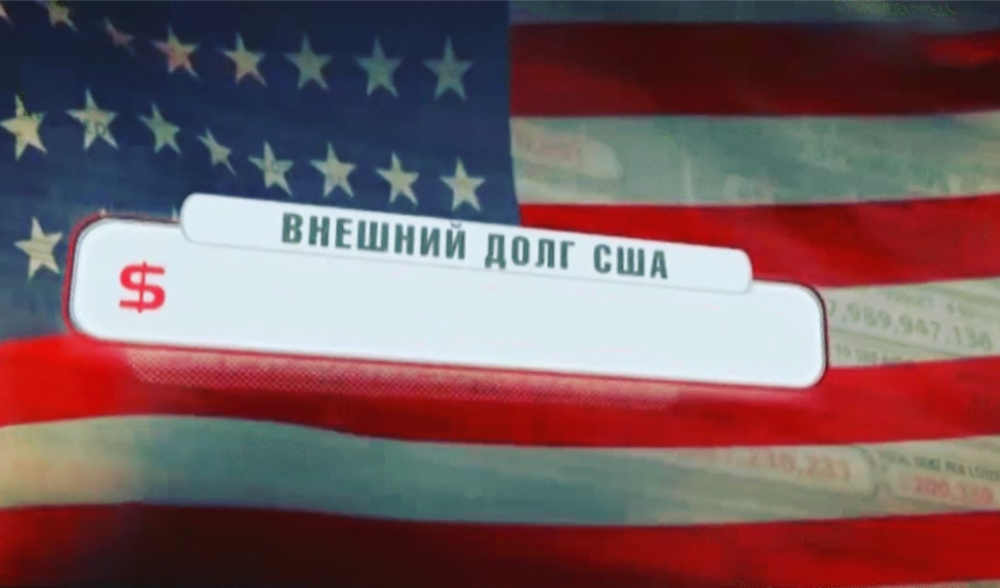
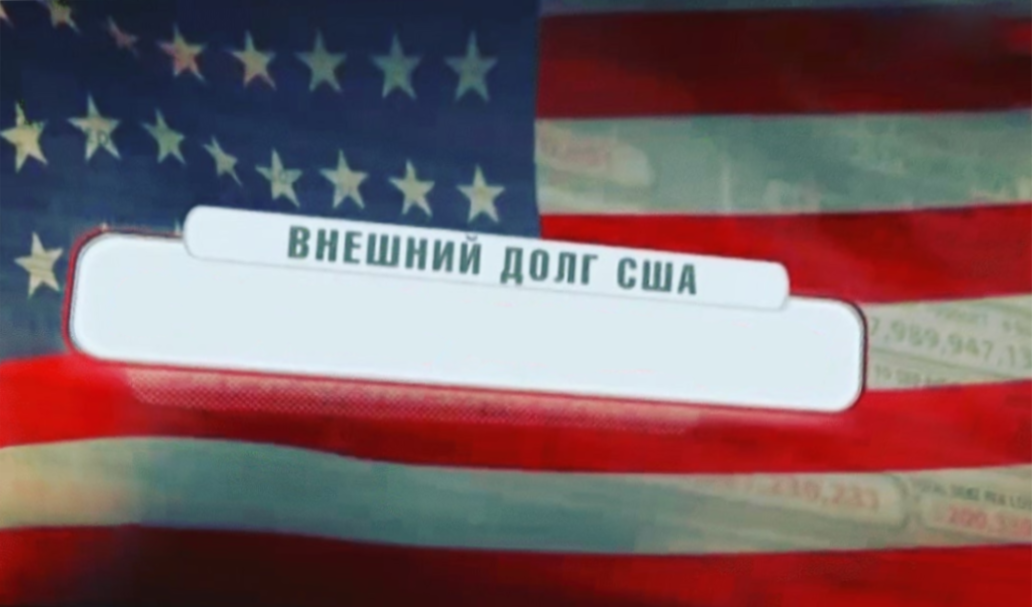
debt img generating

diff --git a/cmd/main.go b/cmd/main.go
@@ -2,62 +2,82 @@ package main
 
 import (
 	"fmt"
-	"image/png"
-	"os"
+	"image"
+	"image/draw"
 
+	"github.com/anthonynsimon/bild/clone"
+	"github.com/anthonynsimon/bild/imgio"
+	"github.com/anthonynsimon/bild/transform"
 	imgmerge "github.com/hablof/US-debt/img_merge"
 	// gim "github.com/ozankasikci/go-image-merge"
 )
 
+var (
+	runeToImg map[rune]string = map[rune]string{
+		'0': "static/0.png",
+		'1': "static/1.png",
+		'2': "static/2.png",
+		'3': "static/3.png",
+		'4': "static/4.png",
+		'5': "static/5.png",
+		'6': "static/6.png",
+		'7': "static/7.png",
+		'8': "static/8.png",
+		'9': "static/9.png",
+		'_': "static/_.png",
+		'$': "static/$.png",
+	}
+)
+
 const (
-	debt = 1_023_456_789
+	debt = 31462676535393
+
+	captionWidth = 730
+	captionHidth = 70
+
+	verticalAngle   = -5
+	horizontalAngle = 4
 )
 
 func main() {
 
-	grids := []*imgmerge.Grid{
-		{ImageFilePath: "static/1.png"},
-		{ImageFilePath: "static/0.png"},
-		{ImageFilePath: "static/0.png"},
-		{ImageFilePath: "static/_.png"},
-		{ImageFilePath: "static/5.png"},
-		{ImageFilePath: "static/0.png"},
-		{ImageFilePath: "static/0.png"},
-	}
-
-	rgba, err := imgmerge.New(grids).Merge()
+	caption, err := strToRGBA(intToSpStr(debt))
 	if err != nil {
-		fmt.Println("aaaaaaaaaaaaaa")
+		fmt.Println("cannot str to rgba", err)
 		return
 	}
 
-	file, err := os.Create("output.png")
+	caption = transform.Resize(caption, captionWidth, captionHidth, transform.Lanczos)
+
+	caption = transform.ShearH(transform.ShearV(caption, verticalAngle), horizontalAngle)
+
+	template, err := imgio.Open("static/template.png")
 	if err != nil {
-		fmt.Println("aaaaaaaaaaaaaa")
+		fmt.Println(err)
 		return
 	}
-	defer file.Close()
 
-	err = png.Encode(file, rgba)
-	if err != nil {
-		fmt.Println("aaaaaaaaaaaaaa")
+	templateRGBA := clone.AsShallowRGBA(template)
+
+	draw.Draw(templateRGBA, templateRGBA.Bounds(), caption, image.Point{-100, -265}, draw.Over)
+
+	if err := imgio.Save("output.png", templateRGBA, imgio.PNGEncoder()); err != nil {
+		fmt.Println(err)
 		return
 	}
-	// img, err := imgio.Open("input.png")
-	// if err != nil {
-	// 	fmt.Println(err)
-	// 	return
-	// }
 
-	// result := transform.ShearH(transform.ShearV(img, -5), 8)
+}
 
-	// if err := imgio.Save("output.png", result, imgio.PNGEncoder()); err != nil {
-	// 	fmt.Println(err)
-	// 	return
-	// }
+func strToRGBA(str string) (*image.RGBA, error) {
+	g := make([]*imgmerge.Grid, 0, len(str))
 
-	// fmt.Println(intToSpStr(debt))
+	for _, r := range str {
+		g = append(g, &imgmerge.Grid{
+			ImageFilePath: runeToImg[r],
+		})
+	}
 
+	return imgmerge.New(g).Merge()
 }
 
 func intToSpStr(debt uint64) string {
@@ -66,7 +86,7 @@ func intToSpStr(debt uint64) string {
 
 	for i := range outSlice {
 		if (i+1)%4 == 0 {
-			outSlice[i] = ' '
+			outSlice[i] = '_'
 			continue
 		}
 
@@ -81,7 +101,7 @@ func intToSpStr(debt uint64) string {
 		outSlice[i], outSlice[l-i-1] = outSlice[l-i-1], outSlice[i]
 	}
 
-	return string(outSlice)
+	return "$__" + string(outSlice)
 }
 
 func lenLoop(i uint64) int {

diff --git a/img_merge/img_merge.go b/img_merge/img_merge.go
@@ -84,6 +84,7 @@ func (m *MergeImage) ReadImageFile(path string) (image.Image, error) {
 	if err != nil {
 		return nil, err
 	}
+	defer imgFile.Close()
 
 	var img image.Image
 	splittedPath := strings.Split(path, ".")
